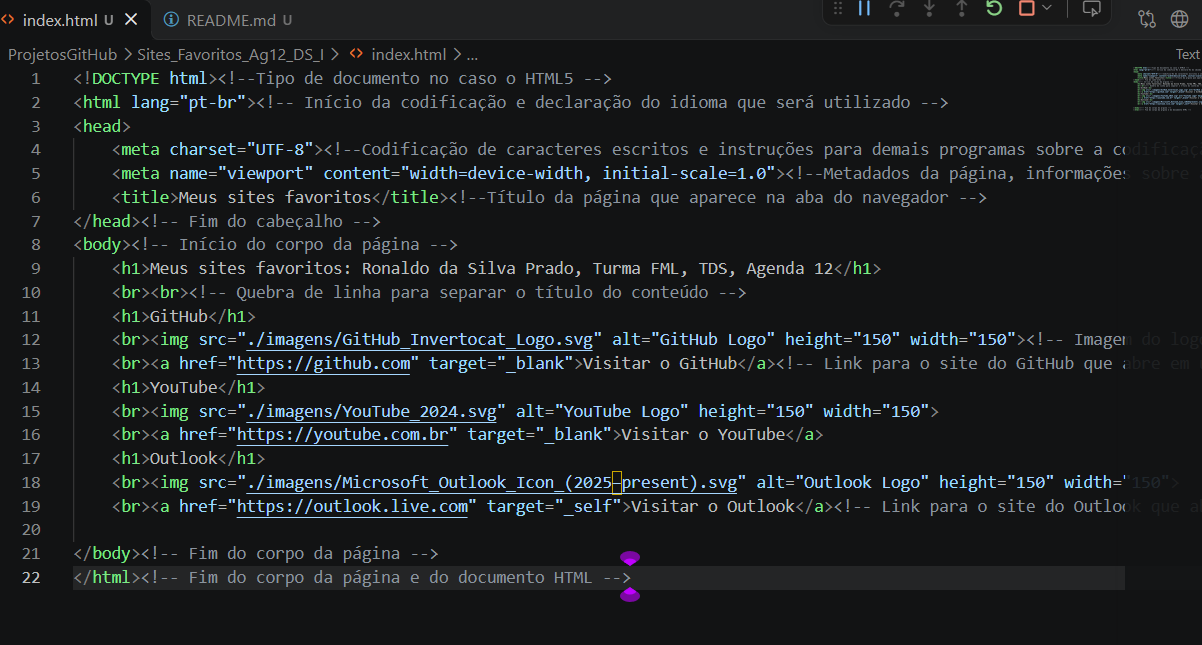
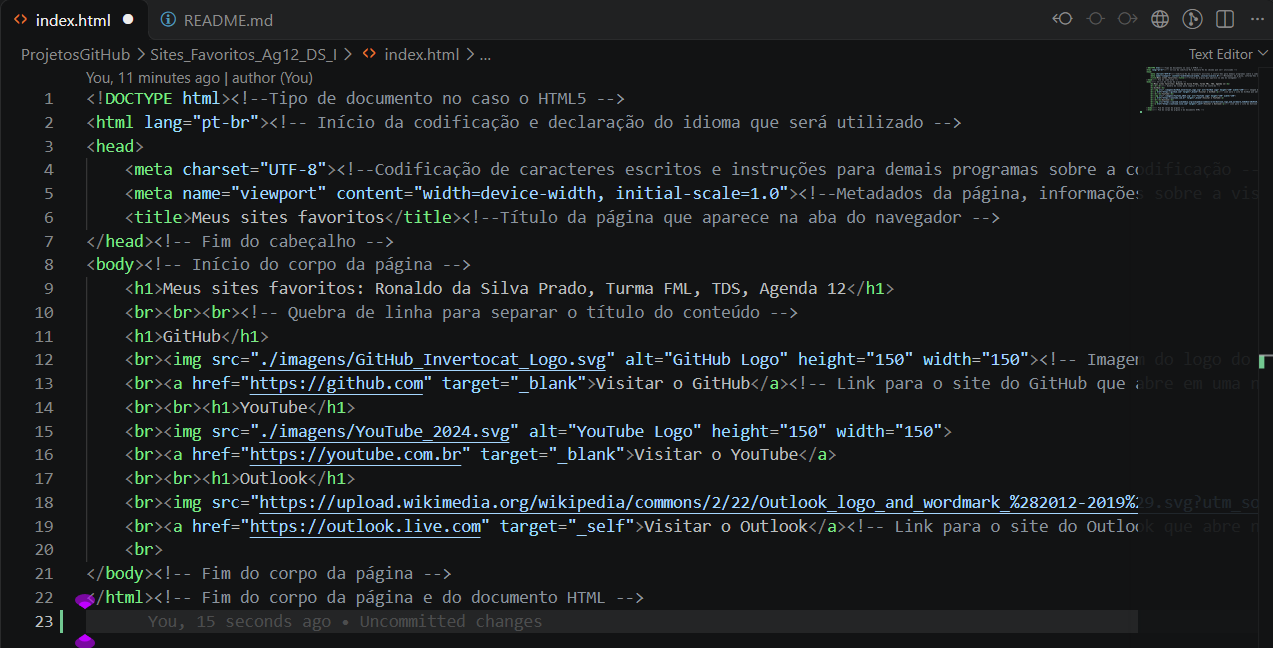
fix: links imagens readme

diff --git a/Sites_Favoritos_Ag12_DS_I/README.md b/Sites_Favoritos_Ag12_DS_I/README.md
@@ -25,10 +25,10 @@ A explicação do funcionamento do código está descrito em comentários nas re
 ## Telas
 
 **Tela da codificação**
-<img src="/ProjetosGitHub/Sites_Favoritos_Ag12_DS_I/ReadmeImg/image.png">
+<img src="/ReadmeImg/image.png">
 
 **Tela do funcionamento**
-<img src="/ProjetosGitHub/Sites_Favoritos_Ag12_DS_I/ReadmeImg/image-1.png">
+<img src="/ReadmeImg/image-1.png">
 
 **Tela ao clicar no link**
-<img src="/ProjetosGitHub/Sites_Favoritos_Ag12_DS_I/ReadmeImg/image-2.png">
+<img src="/ReadmeImg/image-2.png">
